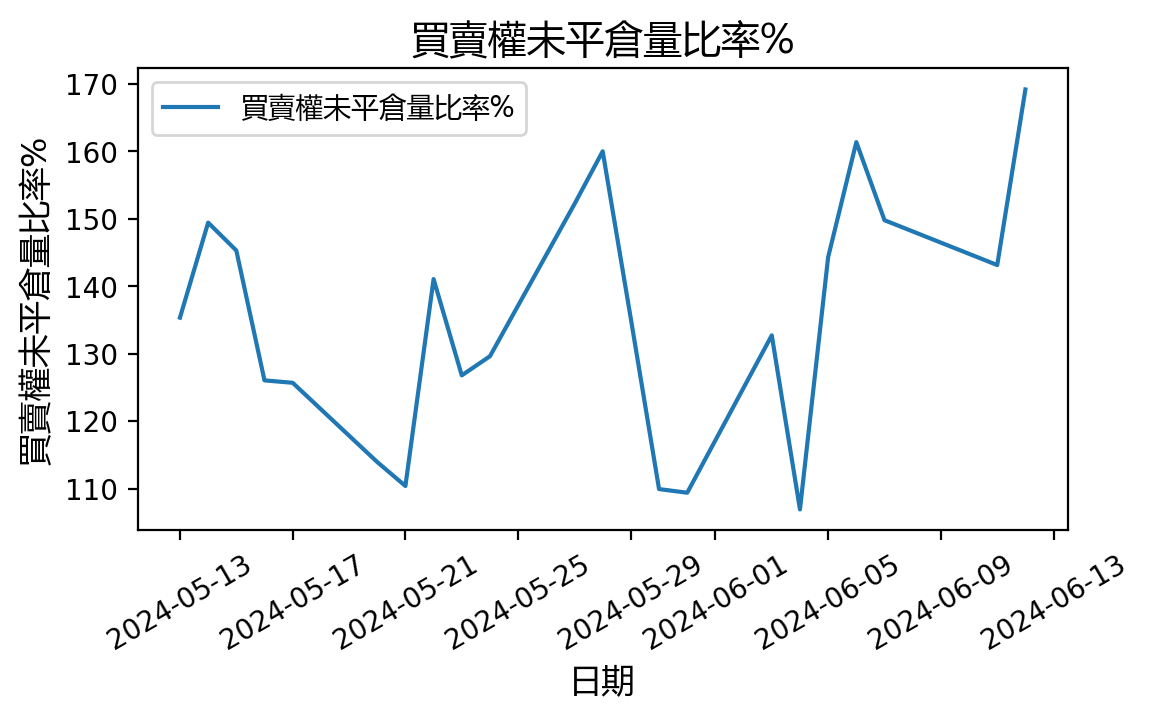
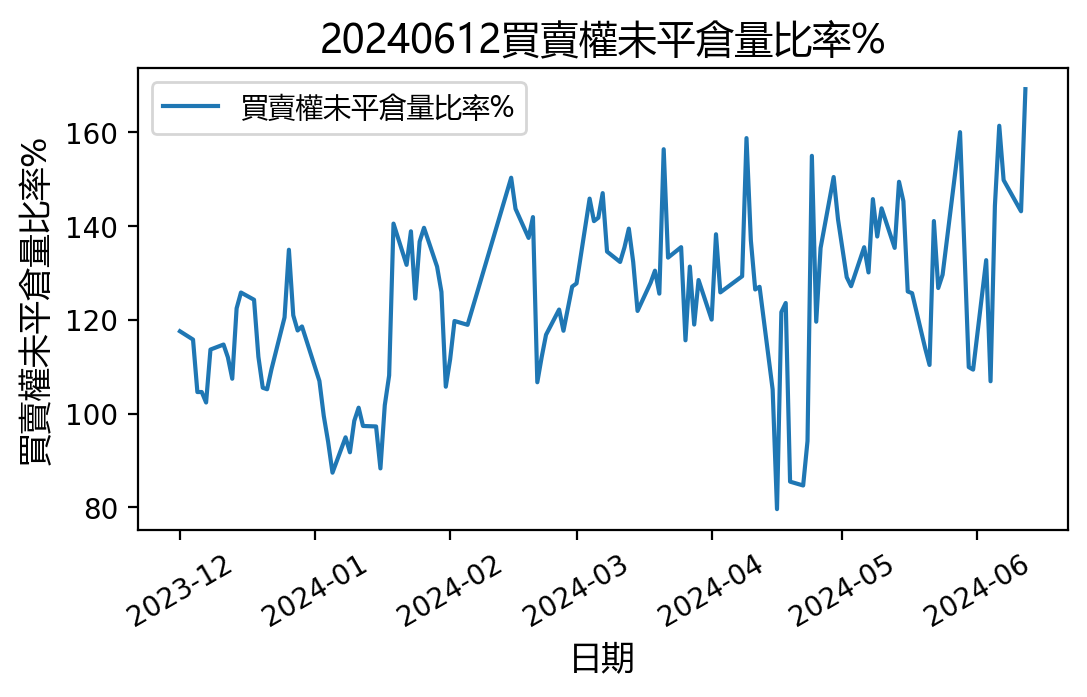
Latest data: Wed Jun 12 15:18:52 CST 2024

Changed region(s): [[0.0, 0.0301, 1.0, 0.9641], [0.6072, 0.5725, 0.6375, 0.6628]]

diff --git a/README.md b/README.md
@@ -1,3 +1,3 @@
 
-## 2024/06/12 選擇權 Put/Call Ratios
+## 20240612 選擇權 Put/Call Ratios
 ![](pcratio.png)
